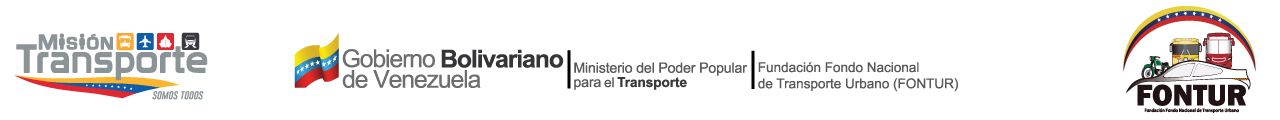
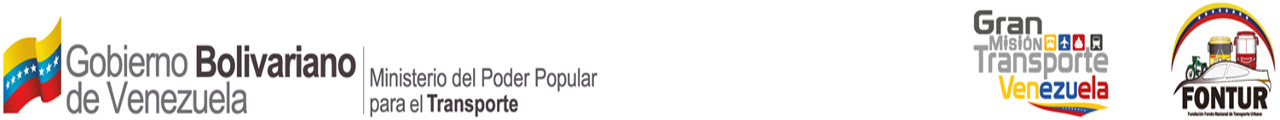
cambios prima por hijo, impresion, home y validacion
1. se cambia mensaje de inicio e imagen de cintillo
2. se cambia iniciales en constancia para media firma
3. se corrige error que imprimia segunda hoja cuando el trabajador tenia menos de tres conceptos de pago
4. se incluye en la insercion en base de datos y en la validacion de la constacia en pdf el concepto prima por hijo
5 se corrige error en dominio de la dirección de correo de fontur

Changed region(s): [[0.0, 0.175, 0.75, 0.95], [0.75, 0.0, 1.0, 0.975], [0.2812, 0.775, 0.4062, 0.95]]

diff --git a/css/custom.css b/css/custom.css
@@ -1,7 +1,8 @@
 header {
    
     background-repeat: no-repeat;
-    background: url(../imagenes/cintillo.jpg) no-repeat center center;
+    /*background: url(../imagenes/cintillo.jpg) no-repeat center center;*/
+	background: url(../imagenes/cintillo.png) no-repeat center center;
     background-size: 100% 100%;
     height:80px;
     width:80%;

diff --git a/constancias/pgsql-insercion_constancia.php b/constancias/pgsql-insercion_constancia.php
@@ -10,7 +10,7 @@
 	
 	if(!pg_fetch_row($result)){
 		//echo "<p>Personal no encontrado en los registros de bd-pg.</p>";
-		$result2 = pg_query($conn, "INSERT INTO constancias (ci, nomina, hash, nsm, estado, fecha_solicitud, dirigido, apellidos_nombres, fecha_ingreso, gerencia, sueldo_base, prima_jerarquia, prima_antiguedad, prima_profesional, prima_hogar, sueldo_total, bono_alimentacion, diferencia_mensual, primatransporte, cargo) VALUES ('".$_SESSION['ci']."', '".$_SESSION['nomina']."', '".$_SESSION['hash']."', '1', '0', '".date("d-m-Y")."', '".$_SESSION['destino']."', '".$_SESSION['apellidosynombres']."', '".$_SESSION['fechaingreso']."', '".strtoupper($_SESSION['gerencia'])."', '".$_SESSION['sueldobase']."', '".$_SESSION['primajerarquia']."', '".$_SESSION['primaantiguedad']."', '".$_SESSION['primaprofesional']."', '".$_SESSION['primahogar']."', '".$_SESSION['sueldototal']."', '".$_SESSION['bonoalimentacion']."', '".$_SESSION['diferenciamensual']."', '".$_SESSION['primatransporte']."', '".$_SESSION['cargo']."');");
+		$result2 = pg_query($conn, "INSERT INTO constancias (ci, nomina, hash, nsm, estado, fecha_solicitud, dirigido, apellidos_nombres, fecha_ingreso, gerencia, sueldo_base, prima_jerarquia, prima_antiguedad, prima_profesional, prima_hogar, sueldo_total, bono_alimentacion, diferencia_mensual, primatransporte, prima_hijo, cargo) VALUES ('".$_SESSION['ci']."', '".$_SESSION['nomina']."', '".$_SESSION['hash']."', '1', '0', '".date("d-m-Y")."', '".$_SESSION['destino']."', '".$_SESSION['apellidosynombres']."', '".$_SESSION['fechaingreso']."', '".strtoupper($_SESSION['gerencia'])."', '".$_SESSION['sueldobase']."', '".$_SESSION['primajerarquia']."', '".$_SESSION['primaantiguedad']."', '".$_SESSION['primaprofesional']."', '".$_SESSION['primahogar']."', '".$_SESSION['sueldototal']."', '".$_SESSION['bonoalimentacion']."', '".$_SESSION['diferenciamensual']."', '".$_SESSION['primatransporte']."', '".$_SESSION['primaporhijo']."', '".$_SESSION['cargo']."');");
 		if (!$result2) {
 		  echo "<p>Error ejecutando consulta en bd-pg insert_nsm1.</p>";
 		  exit;
@@ -21,7 +21,7 @@
 		//verificar valor de consulta para actualizar o rechazar
 		switch(pg_num_rows($result)){
 			case 1:
-				$result2 = pg_query($conn, "INSERT INTO constancias (ci, nomina, hash, nsm, estado, fecha_solicitud, dirigido, apellidos_nombres, fecha_ingreso, gerencia, sueldo_base, prima_jerarquia, prima_antiguedad, prima_profesional, prima_hogar, sueldo_total, bono_alimentacion, diferencia_mensual, primatransporte, cargo) VALUES ('".$_SESSION['ci']."', '".$_SESSION['nomina']."', '".$_SESSION['hash']."', '2', '0', '".date("d-m-Y")."', '".$_SESSION['destino']."', '".$_SESSION['apellidosynombres']."', '".$_SESSION['fechaingreso']."', '".strtoupper($_SESSION['gerencia'])."', '".$_SESSION['sueldobase']."', '".$_SESSION['primajerarquia']."', '".$_SESSION['primaantiguedad']."', '".$_SESSION['primaprofesional']."', '".$_SESSION['primahogar']."', '".$_SESSION['sueldototal']."', '".$_SESSION['bonoalimentacion']."', '".$_SESSION['diferenciamensual']."', '".$_SESSION['primatransporte']."', '".$_SESSION['cargo']."');");
+				$result2 = pg_query($conn, "INSERT INTO constancias (ci, nomina, hash, nsm, estado, fecha_solicitud, dirigido, apellidos_nombres, fecha_ingreso, gerencia, sueldo_base, prima_jerarquia, prima_antiguedad, prima_profesional, prima_hogar, sueldo_total, bono_alimentacion, diferencia_mensual, primatransporte, prima_hijo, cargo) VALUES ('".$_SESSION['ci']."', '".$_SESSION['nomina']."', '".$_SESSION['hash']."', '2', '0', '".date("d-m-Y")."', '".$_SESSION['destino']."', '".$_SESSION['apellidosynombres']."', '".$_SESSION['fechaingreso']."', '".strtoupper($_SESSION['gerencia'])."', '".$_SESSION['sueldobase']."', '".$_SESSION['primajerarquia']."', '".$_SESSION['primaantiguedad']."', '".$_SESSION['primaprofesional']."', '".$_SESSION['primahogar']."', '".$_SESSION['sueldototal']."', '".$_SESSION['bonoalimentacion']."', '".$_SESSION['diferenciamensual']."', '".$_SESSION['primatransporte']."', '".$_SESSION['primaporhijo']."', '".$_SESSION['cargo']."');");
 				if (!$result2) {
 				  echo "<p>Error ejecutando consulta en bd-pg insert_nsm2.</p>";
 				  exit;
@@ -30,7 +30,7 @@
 				}
 			break;
 			case 2:
-				$result2 = pg_query($conn, "INSERT INTO constancias (ci, nomina, hash, nsm, estado, fecha_solicitud, dirigido, apellidos_nombres, fecha_ingreso, gerencia, sueldo_base, prima_jerarquia, prima_antiguedad, prima_profesional, prima_hogar, sueldo_total, bono_alimentacion, diferencia_mensual, primatransporte, cargo) VALUES ('".$_SESSION['ci']."', '".$_SESSION['nomina']."', '".$_SESSION['hash']."', '3', '0', '".date("d-m-Y")."', '".$_SESSION['destino']."', '".$_SESSION['apellidosynombres']."', '".$_SESSION['fechaingreso']."', '".strtoupper($_SESSION['gerencia'])."', '".$_SESSION['sueldobase']."', '".$_SESSION['primajerarquia']."', '".$_SESSION['primaantiguedad']."', '".$_SESSION['primaprofesional']."', '".$_SESSION['primahogar']."', '".$_SESSION['sueldototal']."', '".$_SESSION['bonoalimentacion']."', '".$_SESSION['diferenciamensual']."', '".$_SESSION['primatransporte']."', '".$_SESSION['cargo']."');");
+				$result2 = pg_query($conn, "INSERT INTO constancias (ci, nomina, hash, nsm, estado, fecha_solicitud, dirigido, apellidos_nombres, fecha_ingreso, gerencia, sueldo_base, prima_jerarquia, prima_antiguedad, prima_profesional, prima_hogar, sueldo_total, bono_alimentacion, diferencia_mensual, primatransporte, prima_hijo, cargo) VALUES ('".$_SESSION['ci']."', '".$_SESSION['nomina']."', '".$_SESSION['hash']."', '3', '0', '".date("d-m-Y")."', '".$_SESSION['destino']."', '".$_SESSION['apellidosynombres']."', '".$_SESSION['fechaingreso']."', '".strtoupper($_SESSION['gerencia'])."', '".$_SESSION['sueldobase']."', '".$_SESSION['primajerarquia']."', '".$_SESSION['primaantiguedad']."', '".$_SESSION['primaprofesional']."', '".$_SESSION['primahogar']."', '".$_SESSION['sueldototal']."', '".$_SESSION['bonoalimentacion']."', '".$_SESSION['diferenciamensual']."', '".$_SESSION['primatransporte']."', '".$_SESSION['primaporhijo']."', '".$_SESSION['cargo']."');");
 				if (!$result2) {
 				  echo "<p>Error ejecutando consulta en bd-pg insert_nsm3.</p>";
 				  exit;

diff --git a/constancias/imprimir_constancia.php b/constancias/imprimir_constancia.php
@@ -39,16 +39,24 @@ if($_SESSION['primatransporte']==''||$_SESSION['primatransporte']=='0,00'||$_SES
 if($_SESSION['primaporhijo']==''||$_SESSION['primaporhijo']=='0,00'||$_SESSION['primaporhijo']=='0'){
 	$i++;
 }
-$var1=9-$i;
-$var2=56/$var1;
-
+if ($i<6){
+    $var1=9-$i;
+    $var2=56/$var1;  
+    
+} else {
+    $var2=9.5;
+}
 // Creación del objeto de la clase heredada
 $pdf = new PDF();
 $pdf->AliasNbPages();
 $pdf->AddPage('P','Letter');
 $pdf->SetMargins(20,20,20);
 $pdf->SetFont('Arial','',11);
-$pdf->Image('../imagenes/FirmaDigitalCarnet.png',68,185,75,45,'PNG');
+if ($i<6){
+    $pdf->Image('../imagenes/FirmaDigitalCarnet.png',68,185,75,45,'PNG');
+} else {
+    $pdf->Image('../imagenes/FirmaDigitalCarnet.png',68,160,75,45,'PNG'); 
+}
 //*$pdf->Image('../imagenes/logo_mision.jpg',158,268,30,10,'JPG');*/
 $pdf->Cell(168,30,'',0,1,'C');
 $pdf->Cell(84,5,utf8_decode($_SESSION['correlativo1'])."-".date('Y'),0,0,'L');
@@ -60,7 +68,7 @@ $pdf->Cell(168,5,utf8_decode($_SESSION['destino']),0,1,'L');
 $pdf->SetFont('Arial','',11);
 $pdf->Cell(168,5,'Presente.-',0,1,'L');
 $pdf->Cell(168,5,'',0,1,'C');
-if($_SESSION['nomina']=="fijos"){
+if ($_SESSION['nomina']=="fijos" or $_SESSION['nomina']=="nuevo_circo"){
 	$texto="quien ocupa el cargo de";
 }else{
 	$texto="quien se desempeña como";
@@ -80,25 +88,25 @@ $pdf->Cell(168,5,'',0,1,'C');
 $pdf->SetFont('Arial','B',11);$pdf->Cell(126,$var2,'Sueldo Base:',1,0,'L');$pdf->SetFont('Arial','',11);$pdf->Cell(42,$var2,$_SESSION['sueldobase'],1,1,'R');
 if($_SESSION['diferenciamensual']!=''&&$_SESSION['diferenciamensual']!='0,00'&&$_SESSION['diferenciamensual']!='0'){
 	$pdf->SetFont('Arial','B',11);$pdf->Cell(126,$var2,utf8_decode('Diferencia de Sueldo:'),1,0,'L');$pdf->SetFont('Arial','',11);$pdf->Cell(42,$var2,$_SESSION['diferenciamensual'],1,1,'R');
-}
+} 
 if($_SESSION['primajerarquia']!=''&&$_SESSION['primajerarquia']!='0,00'&&$_SESSION['primajerarquia']!='0'){
 	$pdf->SetFont('Arial','B',11);$pdf->Cell(126,$var2,utf8_decode('Prima de Jerarquía:'),1,0,'L');$pdf->SetFont('Arial','',11);$pdf->Cell(42,$var2,$_SESSION['primajerarquia'],1,1,'R');
-}
+} 
 if($_SESSION['primaantiguedad']!=''&&$_SESSION['primaantiguedad']!='0,00'&&$_SESSION['primaantiguedad']!='0'){
 	$pdf->SetFont('Arial','B',11);$pdf->Cell(126,$var2,utf8_decode('Prima de Antigüedad:'),1,0,'L');$pdf->SetFont('Arial','',11);$pdf->Cell(42,$var2,$_SESSION['primaantiguedad'],1,1,'R');
 }
 if($_SESSION['primaprofesional']!=''&&$_SESSION['primaprofesional']!='0,00'&&$_SESSION['primaprofesional']!='0'){
 	$pdf->SetFont('Arial','B',11);$pdf->Cell(126,$var2,utf8_decode('Prima de Profesional:'),1,0,'L');$pdf->SetFont('Arial','',11);$pdf->Cell(42,$var2,$_SESSION['primaprofesional'],1,1,'R');
-}
+} 
 if($_SESSION['primahogar']!=''&&$_SESSION['primahogar']!='0,00'&&$_SESSION['primahogar']!='0'){
 	$pdf->SetFont('Arial','B',11);$pdf->Cell(126,$var2,utf8_decode('Prima Hogar:'),1,0,'L');$pdf->SetFont('Arial','',11);$pdf->Cell(42,$var2,$_SESSION['primahogar'],1,1,'R');
-}
+} 
 if($_SESSION['primatransporte']!=''&&$_SESSION['primatransporte']!='0,00'&&$_SESSION['primatransporte']!='0'){
 	$pdf->SetFont('Arial','B',11);$pdf->Cell(126,$var2,utf8_decode('Prima Transporte:'),1,0,'L');$pdf->SetFont('Arial','',11);$pdf->Cell(42,$var2,$_SESSION['primatransporte'],1,1,'R');
 }
 if($_SESSION['primaporhijo']!=''&&$_SESSION['primaporhijo']!='0,00'&&$_SESSION['primaporhijo']!='0'){
 	$pdf->SetFont('Arial','B',11);$pdf->Cell(126,$var2,utf8_decode('Prima por Hijo:'),1,0,'L');$pdf->SetFont('Arial','',11);$pdf->Cell(42,$var2,$_SESSION['primaporhijo'],1,1,'R');
-}
+} 
 $pdf->SetFont('Arial','B',11);$pdf->Cell(126,$var2,utf8_decode('Sueldo Total:'),1,0,'L');$pdf->SetFont('Arial','',11);$pdf->Cell(42,$var2,$_SESSION['sueldototal'],1,1,'R');
 $pdf->Cell(168,5,'',0,1,'C');
 $pdf->SetFont('Arial','B',11);$pdf->Cell(168,7,utf8_decode('Beneficio Social de Caracter  No Remunerativo'),0,1,'L');
@@ -115,7 +123,7 @@ $pdf->SetFont('Arial','',8);
 $pdf->Cell(168,3,utf8_decode('Designada mediante Punto de Cuenta N° 313 de fecha quince (15) de octubre de 2018'),0,1,'C');
 $pdf->Cell(168,3,utf8_decode('y Oficio de Notificación N° PRE/O/498 de fecha quince (15) de octubre de 2018.'),0,1,'C');
 $pdf->SetFont('Arial','',11);
-$pdf->Cell(56,5,"PF/ep.",0,0,'L');$pdf->SetFont('Arial','B',8);$pdf->Cell(56,5,utf8_decode($_SESSION['lema']),0,0,'C');$pdf->Cell(56,5,'',0,1,'R');
+$pdf->Cell(56,5,"LC/EP.",0,0,'L');$pdf->SetFont('Arial','B',8);$pdf->Cell(56,5,utf8_decode($_SESSION['lema']),0,0,'C');$pdf->Cell(56,5,'',0,1,'R');
 $pdf->Cell(168,5,'',0,1,'C');
 $pdf->SetFont('Arial','BI',9);
 $pdf->Cell(168,3,utf8_decode($_SESSION['rif']),0,1,'C');

diff --git a/constancias/pgsql-insercion_constancia - copia.php b/constancias/pgsql-insercion_constancia - copia.php
@@ -1,0 +1,45 @@
+<?php
+	session_start();
+	require('../incluidos/bd-pgsql.php');
+
+	$result = pg_query($conn, "SELECT nsm FROM constancias WHERE ci = '".$_SESSION['ci']."' AND date_part('month',fecha_solicitud) >= date_part('month',now()) AND date_part('year',fecha_solicitud) = date_part('year',now());");
+	 if (!$result) {
+	  echo "<p>Error ejecutando consulta en bd-pg select_nsm.</p>";
+	  exit;
+	}
+	
+	if(!pg_fetch_row($result)){
+		//echo "<p>Personal no encontrado en los registros de bd-pg.</p>";
+		$result2 = pg_query($conn, "INSERT INTO constancias (ci, nomina, hash, nsm, estado, fecha_solicitud, dirigido, apellidos_nombres, fecha_ingreso, gerencia, sueldo_base, prima_jerarquia, prima_antiguedad, prima_profesional, prima_hogar, sueldo_total, bono_alimentacion, diferencia_mensual, primatransporte, cargo) VALUES ('".$_SESSION['ci']."', '".$_SESSION['nomina']."', '".$_SESSION['hash']."', '1', '0', '".date("d-m-Y")."', '".$_SESSION['destino']."', '".$_SESSION['apellidosynombres']."', '".$_SESSION['fechaingreso']."', '".strtoupper($_SESSION['gerencia'])."', '".$_SESSION['sueldobase']."', '".$_SESSION['primajerarquia']."', '".$_SESSION['primaantiguedad']."', '".$_SESSION['primaprofesional']."', '".$_SESSION['primahogar']."', '".$_SESSION['sueldototal']."', '".$_SESSION['bonoalimentacion']."', '".$_SESSION['diferenciamensual']."', '".$_SESSION['primatransporte']."', '".$_SESSION['cargo']."');");
+		if (!$result2) {
+		  echo "<p>Error ejecutando consulta en bd-pg insert_nsm1.</p>";
+		  exit;
+		}else {
+			header('Location: imprimir_constancia.php');
+		}
+	}else{
+		//verificar valor de consulta para actualizar o rechazar
+		switch(pg_num_rows($result)){
+			case 1:
+				$result2 = pg_query($conn, "INSERT INTO constancias (ci, nomina, hash, nsm, estado, fecha_solicitud, dirigido, apellidos_nombres, fecha_ingreso, gerencia, sueldo_base, prima_jerarquia, prima_antiguedad, prima_profesional, prima_hogar, sueldo_total, bono_alimentacion, diferencia_mensual, primatransporte, cargo) VALUES ('".$_SESSION['ci']."', '".$_SESSION['nomina']."', '".$_SESSION['hash']."', '2', '0', '".date("d-m-Y")."', '".$_SESSION['destino']."', '".$_SESSION['apellidosynombres']."', '".$_SESSION['fechaingreso']."', '".strtoupper($_SESSION['gerencia'])."', '".$_SESSION['sueldobase']."', '".$_SESSION['primajerarquia']."', '".$_SESSION['primaantiguedad']."', '".$_SESSION['primaprofesional']."', '".$_SESSION['primahogar']."', '".$_SESSION['sueldototal']."', '".$_SESSION['bonoalimentacion']."', '".$_SESSION['diferenciamensual']."', '".$_SESSION['primatransporte']."', '".$_SESSION['cargo']."');");
+				if (!$result2) {
+				  echo "<p>Error ejecutando consulta en bd-pg insert_nsm2.</p>";
+				  exit;
+				}else{
+					header('Location: imprimir_constancia.php');
+				}
+			break;
+			case 2:
+				$result2 = pg_query($conn, "INSERT INTO constancias (ci, nomina, hash, nsm, estado, fecha_solicitud, dirigido, apellidos_nombres, fecha_ingreso, gerencia, sueldo_base, prima_jerarquia, prima_antiguedad, prima_profesional, prima_hogar, sueldo_total, bono_alimentacion, diferencia_mensual, primatransporte, cargo) VALUES ('".$_SESSION['ci']."', '".$_SESSION['nomina']."', '".$_SESSION['hash']."', '3', '0', '".date("d-m-Y")."', '".$_SESSION['destino']."', '".$_SESSION['apellidosynombres']."', '".$_SESSION['fechaingreso']."', '".strtoupper($_SESSION['gerencia'])."', '".$_SESSION['sueldobase']."', '".$_SESSION['primajerarquia']."', '".$_SESSION['primaantiguedad']."', '".$_SESSION['primaprofesional']."', '".$_SESSION['primahogar']."', '".$_SESSION['sueldototal']."', '".$_SESSION['bonoalimentacion']."', '".$_SESSION['diferenciamensual']."', '".$_SESSION['primatransporte']."', '".$_SESSION['cargo']."');");
+				if (!$result2) {
+				  echo "<p>Error ejecutando consulta en bd-pg insert_nsm3.</p>";
+				  exit;
+				}else{
+					header('Location: imprimir_constancia.php');
+				}
+			break;
+			case 3: header('Location: ingreso.php?error=mpm'); break;
+		}
+	}
+	pg_close($conn);
+?>

diff --git a/constancias/validar/constancia_valida_pdf.php b/constancias/validar/constancia_valida_pdf.php
@@ -37,8 +37,13 @@ if($_SESSION['primatransporte']==''||$_SESSION['primatransporte']=='0,00'||$_SES
 if($_SESSION['primaporhijo']==''||$_SESSION['primaporhijo']=='0,00'||$_SESSION['primaporhijo']=='0'){
 	$i++;
 }
-$var1=9-$i;
-$var2=56/$var1;
+if ($i<6){
+    $var1=9-$i;
+    $var2=56/$var1;  
+    
+} else {
+    $var2=9.5;
+}
 
 // Creación del objeto de la clase heredada
 $pdf = new PDF();
@@ -47,7 +52,12 @@ $pdf->AddPage('P','Letter');
 $pdf->SetMargins(20,20,20);
 $pdf->SetFont('Arial','',11);
 //$pdf->Image('../../imagenes/FirmaDigitalCarnet.png',67,192,75,45,'PNG');
-$pdf->Image('../../imagenes/FirmaDigitalCarnet.png',68,185,75,45,'PNG');
+if ($i<6){
+    $pdf->Image('../../imagenes/FirmaDigitalCarnet.png',68,185,75,45,'PNG');
+} else {
+    $pdf->Image('../../imagenes/FirmaDigitalCarnet.png',68,160,75,45,'PNG');
+}
+
 //$pdf->Image('../../imagenes/Mision.jpg',158,268,30,10,'JPG');
 $pdf->Cell(168,30,'',0,1,'C');
 $pdf->Cell(84,5,utf8_decode($_SESSION['correlativo1'])."-".date('Y'),0,0,'L');
@@ -113,7 +123,7 @@ $pdf->Cell(168,3,utf8_decode('Designada mediante Punto de Cuenta N° 313 de fech
 $pdf->Cell(168,3,utf8_decode('y Oficio de Notificación N° PRE/O/498 de fecha quince (15) de octubre de 2018.'),0,1,'C');
 //$pdf->Cell(56,5,utf8_decode($_SESSION['correlativo2']),0,0,'L');$pdf->SetFont('Arial','B',8);$pdf->Cell(56,5,utf8_decode($_SESSION['lema']),0,0,'C');$pdf->Cell(56,5,'',0,1,'R');
 $pdf->SetFont('Arial','',11);
-$pdf->Cell(56,5,"PF/ep.",0,0,'L');$pdf->SetFont('Arial','B',8);$pdf->Cell(56,5,utf8_decode($_SESSION['lema']),0,0,'C');$pdf->Cell(56,5,'',0,1,'R');
+$pdf->Cell(56,5,"LC/EP.",0,0,'L');$pdf->SetFont('Arial','B',8);$pdf->Cell(56,5,utf8_decode($_SESSION['lema']),0,0,'C');$pdf->Cell(56,5,'',0,1,'R');
 $pdf->Cell(168,5,'',0,1,'C');
 $pdf->SetFont('Arial','BI',9);
 $pdf->Cell(168,3,utf8_decode($_SESSION['rif']),0,1,'C');

diff --git a/constancias/validar/constancia_validar.php b/constancias/validar/constancia_validar.php
@@ -22,6 +22,7 @@ $_SESSION['bonoalimentacion']=consulta_pgsql_val1("bono_alimentacion", "constanc
 $_SESSION['primatransporte']=consulta_pgsql_val1("primatransporte", "constancias", $_POST['codigo']);
 $_SESSION['hash']=consulta_pgsql_val1("hash", "constancias", $_POST['codigo']);
 $_SESSION['nomina']=consulta_pgsql_val1("nomina", "constancias", $_POST['codigo']);
+$_SESSION['primaporhijo']=consulta_pgsql_val1("prima_hijo", "constancias", $_POST['codigo']);
 $fecha_solicitud =consulta_pgsql_val1("fecha_solicitud", "constancias", $_POST['codigo']);
 $fecha = explode("-",$fecha_solicitud);
 $fecha[0]=$año;

diff --git a/constancias/ingreso.php b/constancias/ingreso.php
@@ -77,7 +77,7 @@
 <nav class="navbar navbar-default">
  <div class="container-fluid">
  <marquee direction="left" scrollamount="10">
-<font color="#FFFFFF" face="Starduster Expanded Italic" size="8">“El amor por la patria, si es verdadero, a uno lo lleva, incluso si es necesario, a dar la vida misma por ella, porque la vida nuestra es transitoria; la de la patria debe ser eterna y tiene que ser una patria grande, hermosa, libre, desarrollada”. Hugo Chavez</font>
+<font color="#FFFFFF" face="Starduster Expanded Italic" size="8"></font>
 </marquee>	
 </div><!-- /.navbar-collapse --> 
 </nav>

diff --git a/incluidos/bd-pgsql.php b/incluidos/bd-pgsql.php
@@ -1,6 +1,6 @@
 <?php
 	/************************************conexión servidor local***********************************************/
-        $conn = pg_connect("host=127.0.0.1 port=5432 dbname=nominas user=postgres password=postgres");
+        $conn = pg_connect("host=127.0.0.1 port=5432 dbname=nominas_elcy user=postgres password=postgres");
         /************************************conexión server5***********************************************/
         //$conn = pg_connect("host=127.0.0.1 port=5432 dbname=nominas user=postgres password=noseascomoyosoy");
 	if (!$conn) {

diff --git a/incluidos/constantes.php b/incluidos/constantes.php
@@ -27,5 +27,5 @@
 	$rif='Rif: G-20006289-4';
 	$institucion2='FUNDACION FONDO NACIONAL DE TRANSPORTE URBANO';
 	$direccioninstitucion='Av. Los Jabillos. Edf. FONTUR, Sabana Grande. Caracas - Venezuela';
-	$contacto='Máster (0212)707.02.77 -/fax. 707.0283 e-mail: fontur@fontur.gov.ve - http://www.fontur.gob.ve';
+	$contacto='Máster (0212)707.02.77 -/fax. 707.0283 e-mail: fontur@fontur.gob.ve - http://www.fontur.gob.ve';
 ?>
